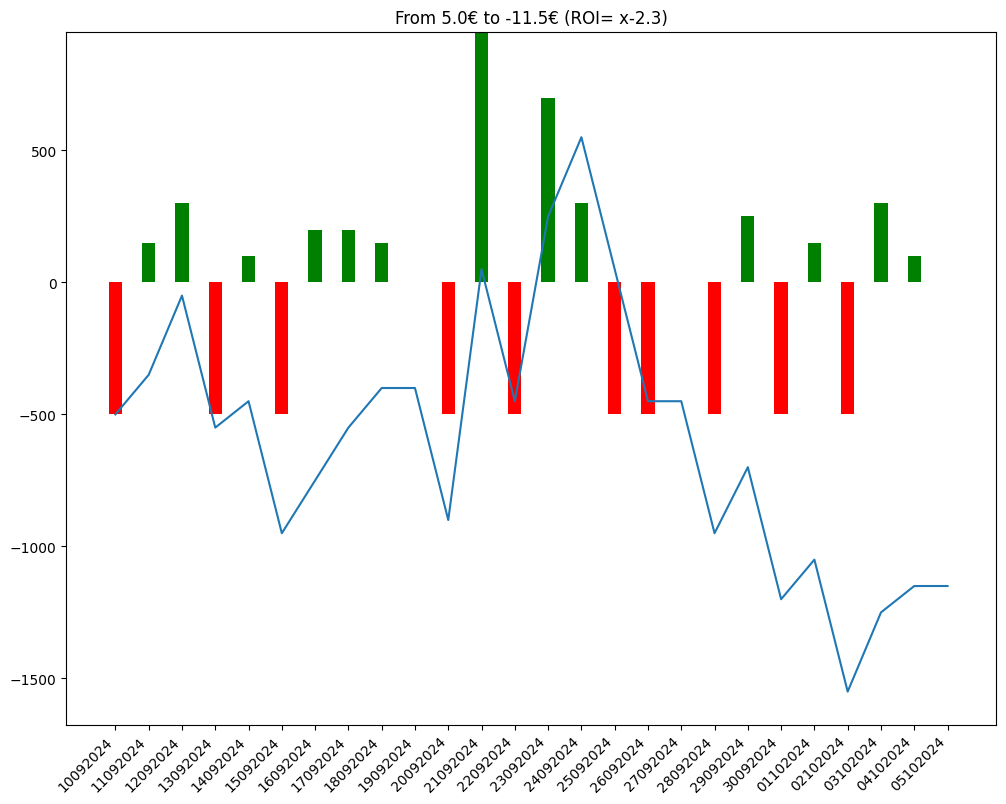
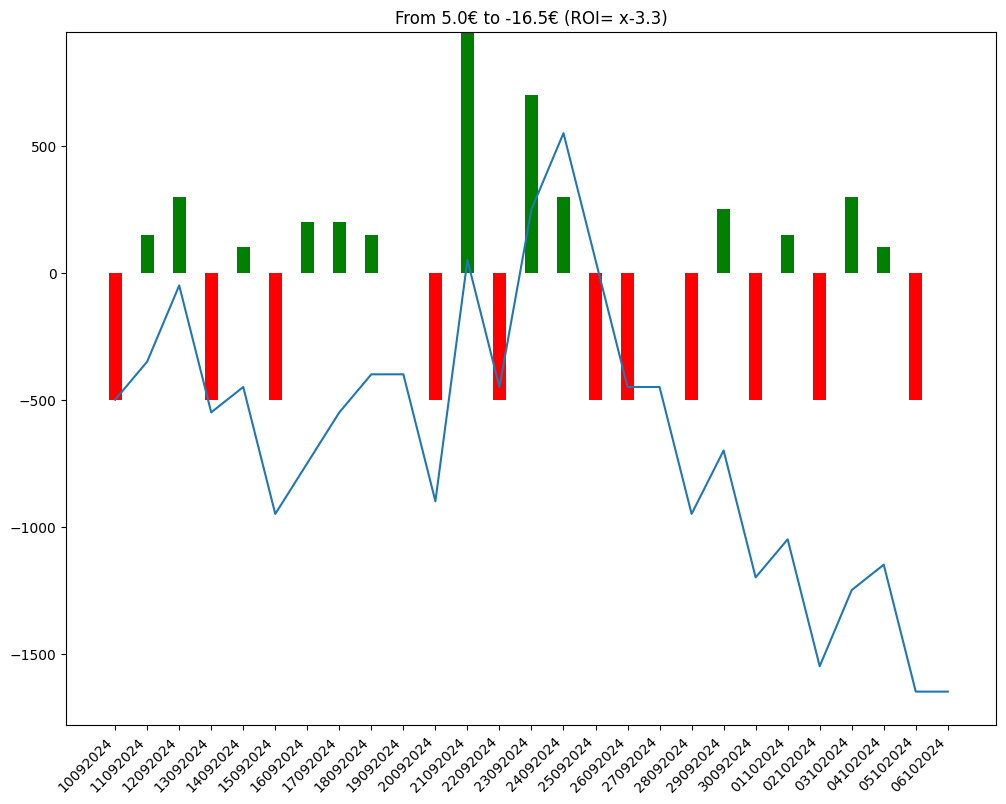
comment from python script

diff --git a/bethistory.html b/bethistory.html
@@ -86,7 +86,8 @@
             En observant la courbe 🤔, on peut avoir une idée visuelle de l'évolution des gains et ainsi évaluer le model utilisé 🧑🏫.
         </p>
         
-        <img src = "/candle.png" alt="candle chart"/><table><tr><td>Chevaux joués</td><td>Gains</td><td>URL Circuits</td></tr><tr><td>7 - SAWARIM</td><td>0</td><td><a href=https://www.pmu.fr/turf/05102024/r1/c2 target="_blank">https://www.pmu.fr/turf/05102024/r1/c2</a></td></tr>
+        <img src = "/candle.png" alt="candle chart"/><table><tr><td>Chevaux joués</td><td>Gains</td><td>URL Circuits</td></tr><tr><td>1 - ZARIGANA</td><td>0</td><td><a href=https://www.pmu.fr/turf/06102024/r1/c1 target="_blank">https://www.pmu.fr/turf/06102024/r1/c1</a></td></tr>
+<tr><td>7 - SAWARIM</td><td>-500</td><td><a href=https://www.pmu.fr/turf/05102024/r1/c2 target="_blank">https://www.pmu.fr/turf/05102024/r1/c2</a></td></tr>
 <tr><td>1 - DOHA</td><td>+100</td><td><a href=https://www.pmu.fr/turf/04102024/r4/c4 target="_blank">https://www.pmu.fr/turf/04102024/r4/c4</a></td></tr>
 <tr><td>1 - INATTENDU</td><td>+300</td><td><a href=https://www.pmu.fr/turf/03102024/r3/c5 target="_blank">https://www.pmu.fr/turf/03102024/r3/c5</a></td></tr>
 <tr><td>8 - ZOE</td><td>-500</td><td><a href=https://www.pmu.fr/turf/02102024/r4/c6 target="_blank">https://www.pmu.fr/turf/02102024/r4/c6</a></td></tr>
